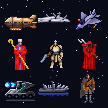
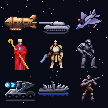
Update Fading Suns art and rules, trim RUST
Claude-Session: https://claude.ai/code/session_01NjDAVdBsSHEKPRWpSjyjdW

Changed region(s): [[0.3333, 0.1111, 0.6667, 0.3333], [0.6944, 0.3611, 0.9167, 0.6389], [0.7222, 0.6667, 0.9444, 0.9722]]

diff --git a/index.html b/index.html
@@ -433,20 +433,32 @@ footer { border-top: 1px solid var(--line); padding-block: 28px 44px; display: f
             <p>Universities and Labs research structure and unit techs from books. Books in a Monastery are safe. Books kept in a Lab or out in the field can draw demons.</p>
           </div>
           <div>
-            <h4>Wrecks and loot</h4>
-            <p>A structure repairs one wreck at a time. Infantry with Capture can crew an enemy's abandoned unit, and other units tow it home.</p>
+            <h4>Combat</h4>
+            <p>Each attack rolls to see whether it damages the target; a hit deals 1 damage. Weapons are rated against hard, soft and air targets. Area strikes wound every unit in the enemy stack, and ranged units fire across several hexes.</p>
+          </div>
+          <div>
+            <h4>Wrecks and capture</h4>
+            <p>Units aren't destroyed outright: they are wrecked and can be repaired back into service. Infantry can rout and escape combat, and can capture enemy vehicles. Vehicles burn Energy and are abandoned when they run dry.</p>
+          </div>
+          <div>
+            <h4>Resources</h4>
+            <p>Food, Energy, Metals, Fuel, Trace, Exotics, Chemicals, Biochems, Electronics, Wetware and Ceramsteel.</p>
           </div>
         </div>
       </div>
       <div class="block">
         <h3>Units</h3>
         <figure class="fig">
-          <div class="stage"><img class="px" src="img/fs-units.png" alt="Starships, a zeppelin, a jet, warships, a plasma cannon, an armoured train, a crusader, a knight, a cardinal, an inquisitor and a noble" width="1002" height="64"></div>
-          <figcaption>Space, air, sea and ground units, from dreadnoughts to inquisitors. All 32×32 sprites.</figcaption>
+          <div class="stage"><img class="px" src="img/fs-units.png" alt="A zeppelin, a jet, warships, a heavy tank, a hover tank, a plasma cannon, an armoured train, regular infantry, militia, assault and armoured troopers, machine gunners, a flamethrower, orbital troops, a crusader, a knight and a cardinal" width="645" height="32"></div>
+          <figcaption>Air, sea, vehicle and infantry units. All 32×32 sprites.</figcaption>
         </figure>
         <figure class="fig">
-          <div class="stage"><img class="px" src="img/fs-structures.png" alt="Hex icons for a shipyard, refinery, air hangar, and energy, exotica, fertile land, fish, gems, metal and port resources" width="986" height="80"></div>
-          <figcaption>Structure and resource hexes.</figcaption>
+          <div class="stage"><img class="px" src="img/fs-structures.png" alt="Shipyard, refinery and air hangar; a city intact, damaged twice and in ruins; ice city, palace and church; jungle city, fort and monastery; underwater city and lab" width="776" height="40"></div>
+          <figcaption>Structures: a city as it takes damage, and ice, jungle and underwater versions.</figcaption>
+        </figure>
+        <figure class="fig">
+          <div class="stage"><img class="px" src="img/fs-terrain.png" alt="Terrain hexes: jungle, jungle hills and volcano, frozen sea, frozen ocean, ice mountain, swamp, desert, volcano, arid hills, megacity and its tower decorations, abandoned suburbs" width="776" height="40"></div>
+          <figcaption>Terrain: jungle, frozen ocean and more, plus megacity decoration tiles.</figcaption>
         </figure>
       </div>
     </section>
@@ -459,7 +471,7 @@ footer { border-top: 1px solid var(--line); padding-block: 28px 44px; display: f
         <div class="p-intro">
           <p class="p-kind">Tabletop RPG rules · 2026 · draft</p>
           <h2 id="t-rust">RUST</h2>
-          <p class="lede">A rules-light dark fantasy RPG. Every test is a pool of six-sided dice in four colours: you need one success to pass, and the dark dice take successes away.</p>
+          <p class="lede">A rules-light dark fantasy RPG in the vein of Mörk Borg. Every test is a pool of six-sided dice in four colours: you need one success to pass, and the dark dice take successes away.</p>
           <ul class="facts">
             <li>d6 dice pools</li>
             <li>Strength · Agility · Mind</li>
@@ -530,29 +542,6 @@ footer { border-top: 1px solid var(--line); padding-block: 28px 44px; display: f
             <p>Failed Mind saves bring fear, from Pale and Nervous up to Panic and Fainting. A failed save with a misfortune leaves a trauma, like a phobia or an addiction, and each trauma adds a permanent stress die.</p>
           </div>
         </div>
-      </div>
-
-      <div class="block">
-        <h3>Weapons</h3>
-        <div class="table-wrap">
-          <table>
-            <thead><tr><th>Weapon</th><th>Traits</th><th>If skilled</th></tr></thead>
-            <tbody>
-              <tr><td>Unarmed</td><td>Risky, Stun</td><td>Grapple +1 base die</td></tr>
-              <tr><td>Knives</td><td>Risky</td><td>+1 base die vs unarmoured</td></tr>
-              <tr><td>Improvised</td><td>Stun</td><td>Also stuns</td></tr>
-              <tr><td>Sword</td><td></td><td>Extra attack on a kill</td></tr>
-              <tr><td>Axe</td><td></td><td>Double wound</td></tr>
-              <tr><td>Mace</td><td></td><td>Ignores armour</td></tr>
-              <tr><td>Flail</td><td>Risky</td><td>Also stuns</td></tr>
-              <tr><td>Spear</td><td></td><td>Wounds on a parry</td></tr>
-              <tr><td>Staff</td><td>Two hands</td><td>+1 base die to parry</td></tr>
-              <tr><td>Bow</td><td></td><td>Ignores 1 stress die</td></tr>
-              <tr><td>Crossbow</td><td>+1 base die, reload 1 round</td><td>No reload</td></tr>
-            </tbody>
-          </table>
-        </div>
-        <p class="tally">Risky: needs two successes to parry. Stun: no wound, but the target loses Stamina or a turn.</p>
       </div>
 
       <div class="block">

diff --git a/page.html b/page.html
@@ -418,20 +418,32 @@ footer { border-top: 1px solid var(--line); padding-block: 28px 44px; display: f
             <p>Universities and Labs research structure and unit techs from books. Books in a Monastery are safe. Books kept in a Lab or out in the field can draw demons.</p>
           </div>
           <div>
-            <h4>Wrecks and loot</h4>
-            <p>A structure repairs one wreck at a time. Infantry with Capture can crew an enemy's abandoned unit, and other units tow it home.</p>
+            <h4>Combat</h4>
+            <p>Each attack rolls to see whether it damages the target; a hit deals 1 damage. Weapons are rated against hard, soft and air targets. Area strikes wound every unit in the enemy stack, and ranged units fire across several hexes.</p>
+          </div>
+          <div>
+            <h4>Wrecks and capture</h4>
+            <p>Units aren't destroyed outright: they are wrecked and can be repaired back into service. Infantry can rout and escape combat, and can capture enemy vehicles. Vehicles burn Energy and are abandoned when they run dry.</p>
+          </div>
+          <div>
+            <h4>Resources</h4>
+            <p>Food, Energy, Metals, Fuel, Trace, Exotics, Chemicals, Biochems, Electronics, Wetware and Ceramsteel.</p>
           </div>
         </div>
       </div>
       <div class="block">
         <h3>Units</h3>
         <figure class="fig">
-          <div class="stage"><img class="px" src="img/fs-units.png" alt="Starships, a zeppelin, a jet, warships, a plasma cannon, an armoured train, a crusader, a knight, a cardinal, an inquisitor and a noble" width="1002" height="64"></div>
-          <figcaption>Space, air, sea and ground units, from dreadnoughts to inquisitors. All 32×32 sprites.</figcaption>
+          <div class="stage"><img class="px" src="img/fs-units.png" alt="A zeppelin, a jet, warships, a heavy tank, a hover tank, a plasma cannon, an armoured train, regular infantry, militia, assault and armoured troopers, machine gunners, a flamethrower, orbital troops, a crusader, a knight and a cardinal" width="645" height="32"></div>
+          <figcaption>Air, sea, vehicle and infantry units. All 32×32 sprites.</figcaption>
         </figure>
         <figure class="fig">
-          <div class="stage"><img class="px" src="img/fs-structures.png" alt="Hex icons for a shipyard, refinery, air hangar, and energy, exotica, fertile land, fish, gems, metal and port resources" width="986" height="80"></div>
-          <figcaption>Structure and resource hexes.</figcaption>
+          <div class="stage"><img class="px" src="img/fs-structures.png" alt="Shipyard, refinery and air hangar; a city intact, damaged twice and in ruins; ice city, palace and church; jungle city, fort and monastery; underwater city and lab" width="776" height="40"></div>
+          <figcaption>Structures: a city as it takes damage, and ice, jungle and underwater versions.</figcaption>
+        </figure>
+        <figure class="fig">
+          <div class="stage"><img class="px" src="img/fs-terrain.png" alt="Terrain hexes: jungle, jungle hills and volcano, frozen sea, frozen ocean, ice mountain, swamp, desert, volcano, arid hills, megacity and its tower decorations, abandoned suburbs" width="776" height="40"></div>
+          <figcaption>Terrain: jungle, frozen ocean and more, plus megacity decoration tiles.</figcaption>
         </figure>
       </div>
     </section>
@@ -444,7 +456,7 @@ footer { border-top: 1px solid var(--line); padding-block: 28px 44px; display: f
         <div class="p-intro">
           <p class="p-kind">Tabletop RPG rules · 2026 · draft</p>
           <h2 id="t-rust">RUST</h2>
-          <p class="lede">A rules-light dark fantasy RPG. Every test is a pool of six-sided dice in four colours: you need one success to pass, and the dark dice take successes away.</p>
+          <p class="lede">A rules-light dark fantasy RPG in the vein of Mörk Borg. Every test is a pool of six-sided dice in four colours: you need one success to pass, and the dark dice take successes away.</p>
           <ul class="facts">
             <li>d6 dice pools</li>
             <li>Strength · Agility · Mind</li>
@@ -515,29 +527,6 @@ footer { border-top: 1px solid var(--line); padding-block: 28px 44px; display: f
             <p>Failed Mind saves bring fear, from Pale and Nervous up to Panic and Fainting. A failed save with a misfortune leaves a trauma, like a phobia or an addiction, and each trauma adds a permanent stress die.</p>
           </div>
         </div>
-      </div>
-
-      <div class="block">
-        <h3>Weapons</h3>
-        <div class="table-wrap">
-          <table>
-            <thead><tr><th>Weapon</th><th>Traits</th><th>If skilled</th></tr></thead>
-            <tbody>
-              <tr><td>Unarmed</td><td>Risky, Stun</td><td>Grapple +1 base die</td></tr>
-              <tr><td>Knives</td><td>Risky</td><td>+1 base die vs unarmoured</td></tr>
-              <tr><td>Improvised</td><td>Stun</td><td>Also stuns</td></tr>
-              <tr><td>Sword</td><td></td><td>Extra attack on a kill</td></tr>
-              <tr><td>Axe</td><td></td><td>Double wound</td></tr>
-              <tr><td>Mace</td><td></td><td>Ignores armour</td></tr>
-              <tr><td>Flail</td><td>Risky</td><td>Also stuns</td></tr>
-              <tr><td>Spear</td><td></td><td>Wounds on a parry</td></tr>
-              <tr><td>Staff</td><td>Two hands</td><td>+1 base die to parry</td></tr>
-              <tr><td>Bow</td><td></td><td>Ignores 1 stress die</td></tr>
-              <tr><td>Crossbow</td><td>+1 base die, reload 1 round</td><td>No reload</td></tr>
-            </tbody>
-          </table>
-        </div>
-        <p class="tally">Risky: needs two successes to parry. Stun: no wound, but the target loses Stamina or a turn.</p>
       </div>
 
       <div class="block">
